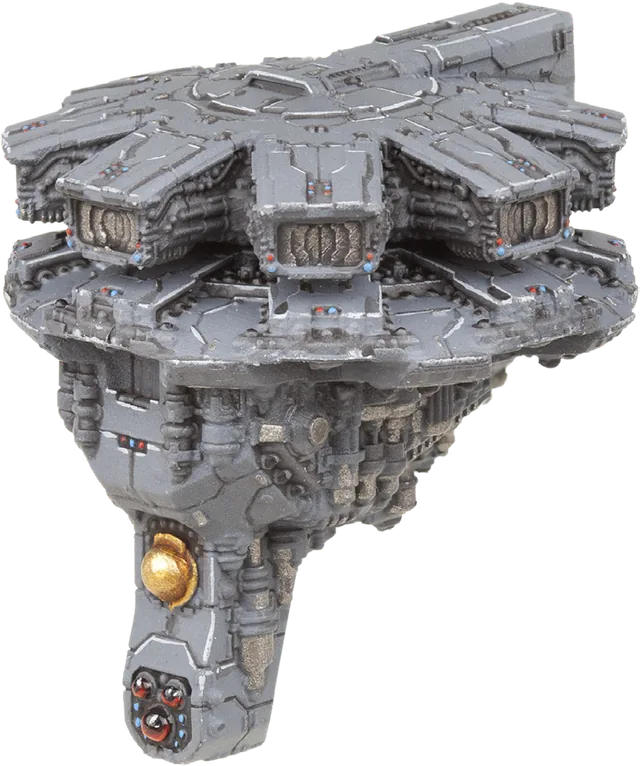
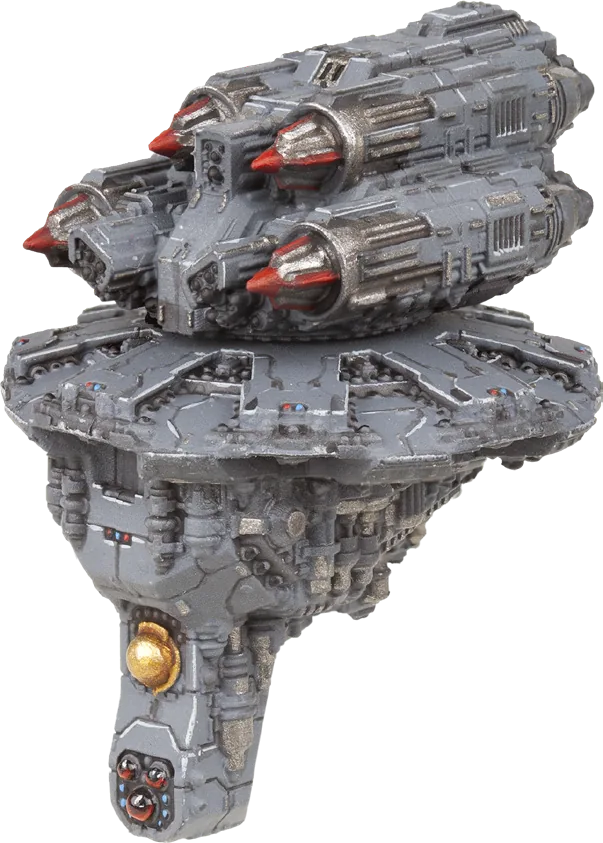
Fix UCM station art swap + reorder scrambled lore (16 ships); cache v329
UCM Defence Hangar and Munitions Platform station renders were swapped
(hangar file showed the torpedo model and vice versa); swapped the full
and thumb webp files so name matches content.

Lore migration left 16 ships with out-of-order text (a trailing block
rotated to the front) and, in 5 cases, a famous-ship tail word leaked
into the body. Reordered each against the clean ship-lore.json source
and restored the leaked names (Sword of Damocles, Destroying Angel,
Portent's Handmaiden, Sun Queen, Rio's Silencer). Coloniser (Magellan's
flagship) had been truncated to a single dangling sentence; restored its
full body.

diff --git a/sw.js b/sw.js
@@ -3,7 +3,7 @@
 // populating the cache as resources are fetched.
 // Bump this on every deploy so existing clients purge the old cache on activate
 // (the app updates frequently — stale assets must not survive a new build).
-const CACHE = 'dfc-cache-v328';
+const CACHE = 'dfc-cache-v329';
 // Same-origin code/data that MUST be fresh when online. Network-first alone is
 // not enough: fetch() still consults the browser HTTP cache, so a client can
 // keep running a stale app.js for as long as GitHub Pages' cache headers allow.
